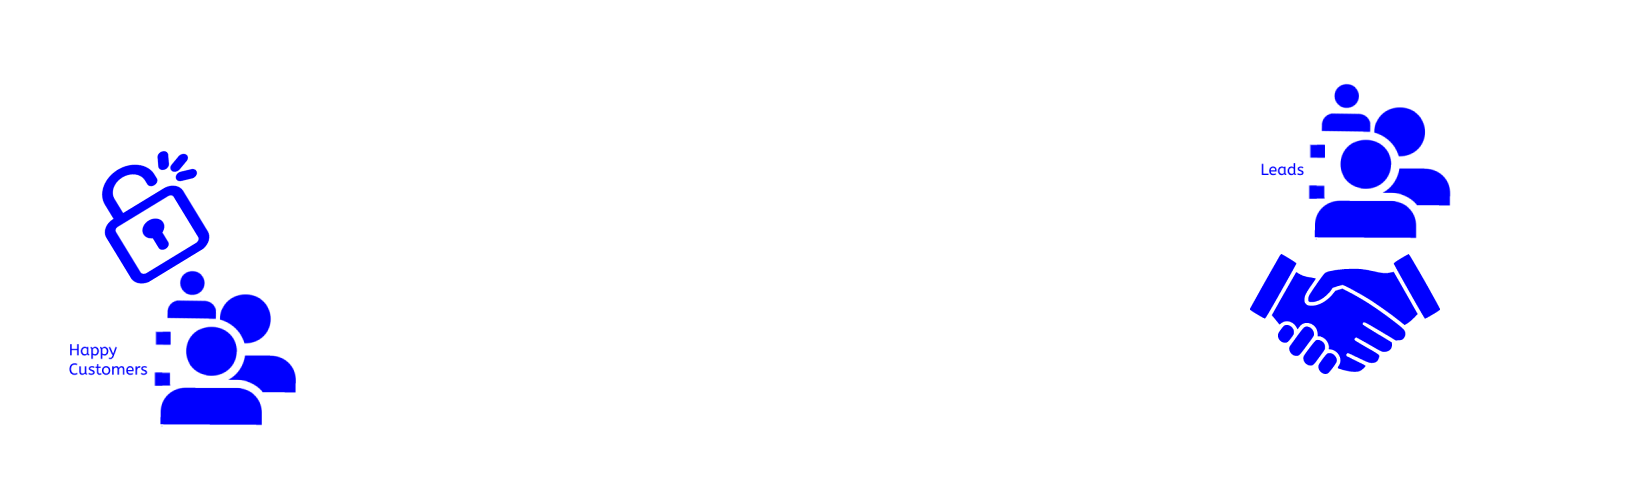
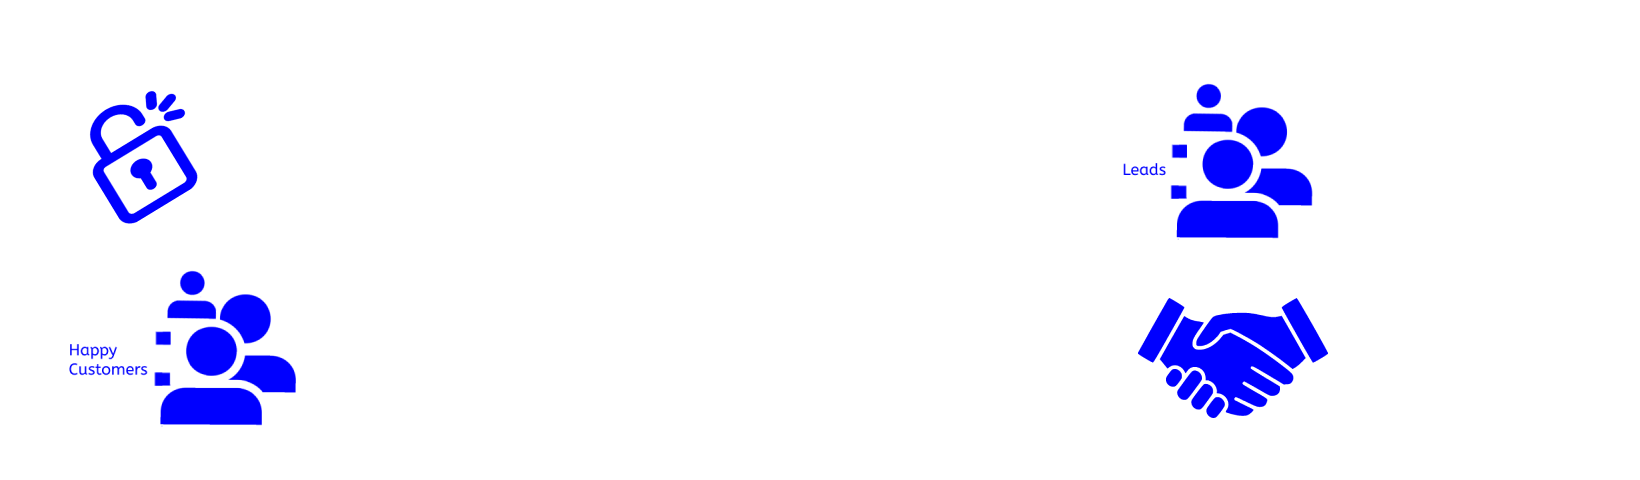
login, reg, bg-img adjustment

Changed region(s): [[0.6841, 0.1562, 0.9018, 0.5], [0.6841, 0.5312, 0.9018, 0.875], [0.0311, 0.1875, 0.1244, 0.5938]]

diff --git a/public/css/custom.css b/public/css/custom.css
@@ -103,3 +103,9 @@
   .forgot-pass {
       margin-left: 95px;
   }
+
+  .footer-auth {
+      background: blue;
+      height: 10%;
+      width: 100%;
+  }

diff --git a/resources/views/auth/register.blade.php b/resources/views/auth/register.blade.php
@@ -82,6 +82,8 @@
                         </div>
                         </fieldset>
                     </form>
+                    
                     </div>
+                    
                     
 @endsection

diff --git a/resources/views/auth/login.blade.php b/resources/views/auth/login.blade.php
@@ -67,6 +67,7 @@
                         <br>
                         </fieldset>
                     </form>
+                   
         </div>
     </div>
 </div>

diff --git a/resources/views/layouts/login.blade.php b/resources/views/layouts/login.blade.php
@@ -43,5 +43,6 @@
             @yield('content')
         </div>
     </div>
+    <div class="footer">footer</div>
 </body>
 </html>
